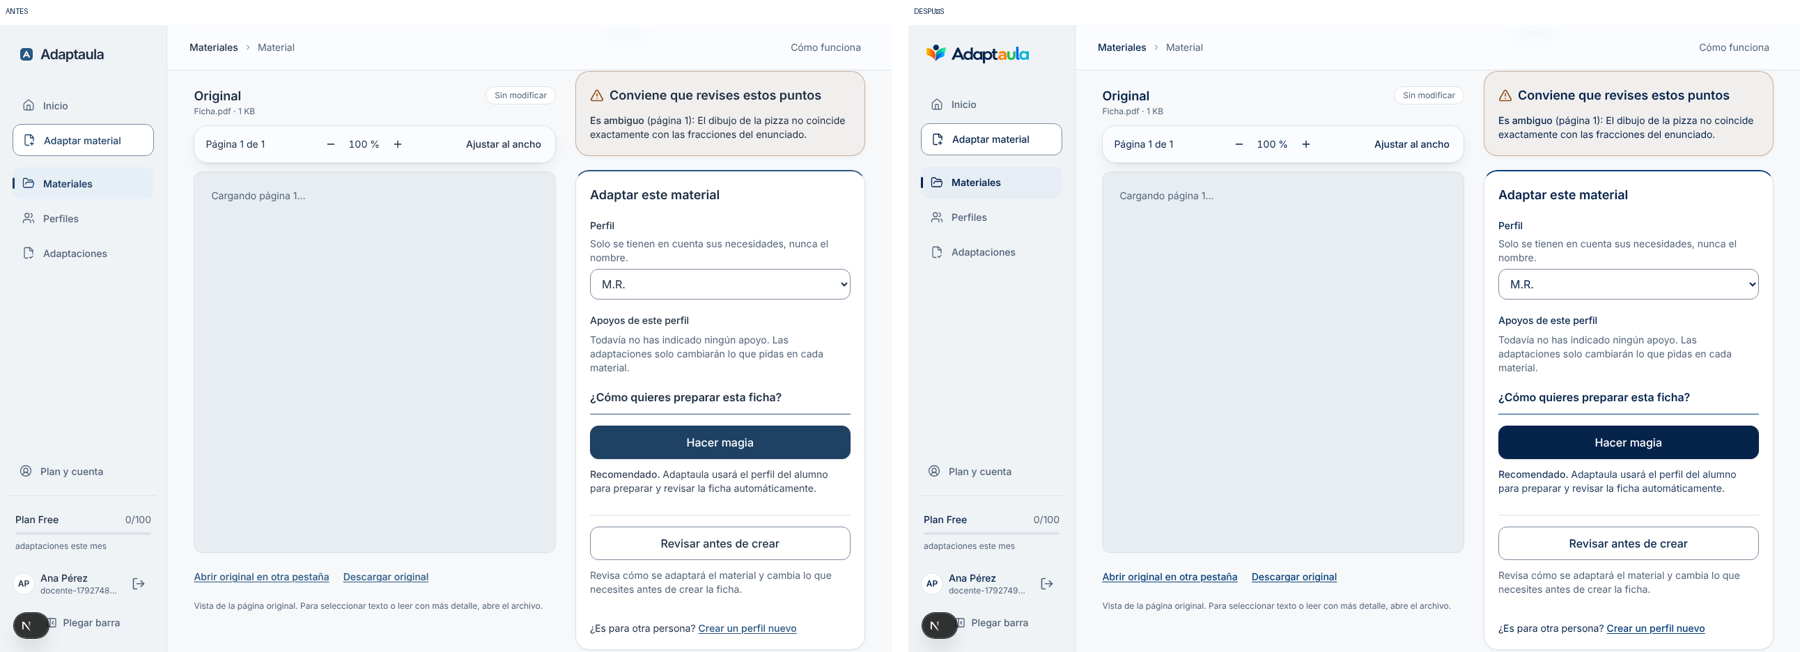
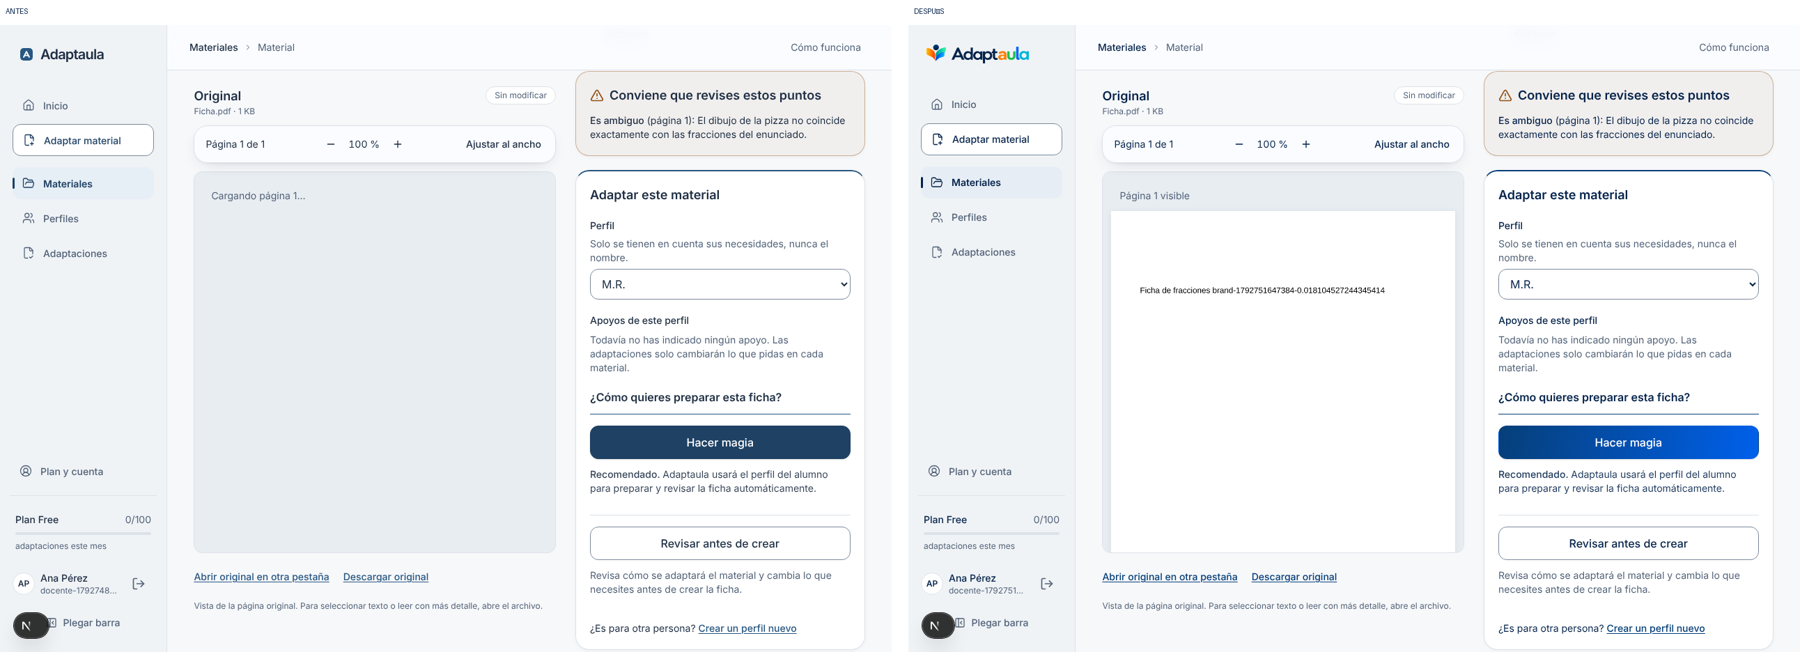
Fase C: la forma de la interfaz habla la marca (tipografía y colores con significado)
- Titulares y títulos de página en Outfit (next/font, autoalojada), la
  tipografía más cercana al logotipo medida contra su silueta (IoU de
  0,61, la primera de 14 candidatas), en lugar de Georgia.
- Pasos numerados (landing, escritorio y acceso) con los colores de «aula»
  en su orden y en sus variantes accesibles (src/lib/brand/tones.ts).
- «Hacer magia», la acción de la IA, en un degradado del azul de marca
  (variant="magic", blanco ≥ 5,4:1, sólido en alto contraste); las
  decisiones del docente siguen en azul marino.
- Franja de marca con los colores de «aula» en la bienvenida y el pie.
- E2E de identidad: comprueba la tipografía, los colores de los pasos y
  el estilo propio de «Hacer magia». Test del flujo ajustado al nuevo
  estilo de la acción principal. Galería antes/después regenerada.

Claude-Session: https://claude.ai/code/session_01GZ7wVLGaN8iJtsHpZxqFEf

Changed region(s): [[0.8089, 0.6442, 0.9956, 0.7055], [0.6222, 0.4294, 0.7778, 0.4601], [0.6222, 0.2761, 0.6844, 0.3067]]

diff --git a/tests/e2e/brand-identity.spec.ts b/tests/e2e/brand-identity.spec.ts
@@ -72,6 +72,10 @@ test("landing, cabecera, footer y acceso: logotipo oficial, favicon y sin desbor
     const manifest = (await (await request.get(icons.find((i) => i.rel === "manifest")!.href)).json()) as { icons: Array<{ src: string; sizes: string }> };
     for (const icon of manifest.icons) expect((await request.get(icon.src)).status(), icon.src).toBe(200);
     expect(manifest.icons.map((i) => i.sizes)).toEqual(expect.arrayContaining(["192x192", "512x512"]));
+    // The form speaks the brand: titles in the display face closest to the wordmark, the steps in the colours of «aula» in order.
+    expect(await page.getByRole("heading", { level: 1 }).first().evaluate((h) => getComputedStyle(h).fontFamily)).toMatch(/Outfit/i);
+    const stepRules = await page.locator("#como-funciona ol > li").evaluateAll((items) => items.map((li) => getComputedStyle(li).borderTopColor));
+    expect(stepRules.slice(0, 4)).toEqual(["rgb(219, 110, 1)", "rgb(28, 161, 69)", "rgb(0, 103, 253)", "rgb(1, 153, 186)"]);
     // Exactly one horizontal logo per header: never duplicated.
     await expect(page.getByRole("banner").locator(`img[src="${WORDMARK}"]:visible`)).toHaveCount(1);
   }
@@ -141,6 +145,13 @@ test("espacio docente: bienvenida, escritorio, barra lateral expandida y plegada
   await expect(page.getByRole("heading", { name: "¿Cómo quieres preparar esta ficha?" })).toBeVisible();
   await snap(page, info, "06-hacer-magia");
   if (!BEFORE) {
+    // What the AI does by itself is told apart from what the teacher decides: «Hacer magia» in the brand blue, «Revisar antes de
+    // crear» a neutral control. Its white label keeps ≥ 4.5:1 on both ends of the gradient (measured in brand.css).
+    const magic = page.getByRole("button", { name: "Hacer magia" });
+    await expect(magic).toHaveClass(/btn-magic/);
+    expect(await magic.evaluate((b) => getComputedStyle(b).backgroundImage)).toMatch(/linear-gradient/);
+    expect(await magic.evaluate((b) => getComputedStyle(b).color)).toBe("rgb(255, 255, 255)");
+    await expect(page.getByRole("button", { name: "Revisar antes de crear" })).not.toHaveClass(/btn-magic/);
     expect(await noOverflow(page)).toBe(true);
     expect(await serious(page)).toEqual([]);
   }

diff --git a/src/app/app/(shell)/(inicio)/page.tsx b/src/app/app/(shell)/(inicio)/page.tsx
@@ -6,6 +6,8 @@ import { requireWorkspace } from "@/lib/auth/workspace";
 import { formatDay, greetingFor } from "@/lib/format/date";
 import { getWorkspaceUsage } from "@/lib/plans/usage";
 import { listMaterials } from "@/lib/materials/repository";
+import { stepTone } from "@/lib/brand/tones";
+import { cn } from "@/lib/utils/cn";
 import { StatusBadge } from "@/components/materials/status-badge";
 import type { MaterialStatus } from "@/lib/materials/types";
 import { countActiveProfiles } from "@/lib/profiles/repository";
@@ -101,12 +103,12 @@ export default async function DashboardPage() {
 
       {materials.length === 0 ? (
         <section aria-labelledby="empieza" className="py-2">
-          <h2 id="empieza" className="font-editorial text-2xl sm:text-3xl">Empieza subiendo una ficha que ya utilizas.</h2>
+          <h2 id="empieza" className="font-display text-2xl sm:text-3xl">Empieza subiendo una ficha que ya utilizas.</h2>
           <p className="mt-3 max-w-xl text-muted-foreground">Cuando subas tu primer material, aparecerá aquí para que puedas retomarlo.</p>
           <ol className="mt-8 grid gap-6 sm:grid-cols-3">
             {FIRST_STEPS.map((step, i) => (
-              <li key={step.title} className="border-t border-border pt-4">
-                <span aria-hidden className="text-xs text-primary">0{i + 1}</span>
+              <li key={step.title} className={cn("border-t-2 pt-4", stepTone(i).rule)}>
+                <span aria-hidden className={cn("font-display text-sm font-semibold", stepTone(i).text)}>0{i + 1}</span>
                 <h3 className="mb-2 mt-3 font-semibold"><span className="sr-only">Paso {i + 1}: </span>{step.title}</h3>
                 <p className="text-sm text-muted-foreground">{step.text}</p>
               </li>

diff --git a/src/styles/brand.css b/src/styles/brand.css
@@ -35,8 +35,21 @@
   .brand-lockup--symbol { padding-top: 0; }
   .brand-lockup--symbol .brand-wordmark { display: none; }
   .brand-lockup--symbol .brand-symbol { height: 2rem; margin-top: 0; }
+  /* Titulares (Outfit): seminegrita por defecto, como el logotipo; un peso explícito en el marcado manda. */
+  .font-display { font-weight: 600; letter-spacing: -0.02em; }
+  /* «Hacer magia»: la acción que hace la IA, en el azul de la marca (del círculo al azul intenso). Blanco ≥ 5,4:1 en todo el
+     degradado; el hover lo oscurece. Sin degradado en alto contraste o colores forzados. */
+  .btn-magic { background: linear-gradient(100deg, var(--color-primary) 0%, var(--color-brand-blue-ink) 100%); }
+  .btn-magic:hover:not(:disabled) { background: linear-gradient(100deg, var(--color-primary-strong) 0%, var(--color-primary) 100%); }
+  /* Firma de marca: los cuatro colores de «aula» en su orden. Decorativa (aria-hidden); nunca transmite información. */
+  .brand-rule { height: 3px; border: 0; background: linear-gradient(90deg, var(--color-brand-orange) 0 25%, var(--color-brand-green) 25% 50%, var(--color-brand-blue) 50% 75%, var(--color-brand-cyan) 75% 100%); }
+}
+@media (prefers-contrast: more) {
+  .btn-magic, .btn-magic:hover:not(:disabled) { background: var(--color-primary-strong); }
 }
 @media (forced-colors: active) {
   /* Los recursos oficiales se ven tal cual; el enlace sigue mostrando su foco del sistema. */
   .brand-lockup img { forced-color-adjust: none; }
+  .btn-magic { background: ButtonFace; color: ButtonText; border-color: ButtonText; }
+  .brand-rule { display: none; }
 }

diff --git a/src/app/(auth)/layout.tsx b/src/app/(auth)/layout.tsx
@@ -1,5 +1,7 @@
 import type { ReactNode } from "react";
 import { Logo } from "@/components/ui/logo";
+import { stepTone } from "@/lib/brand/tones";
+import { cn } from "@/lib/utils/cn";
 
 const STEPS = ["Sube un PDF o una imagen", "Elige apoyos funcionales", "Revisa la ficha y descarga el PDF"] as const;
 
@@ -10,9 +12,9 @@ export default function AuthLayout({ children }: { children: ReactNode }) {
         <Logo size="lg" />
         <div className="max-w-lg space-y-8">
           <p className="eyebrow text-primary">Del documento al aula</p>
-          <p className="font-editorial text-5xl leading-[1.12] tracking-tight">Tus materiales de siempre. Más formas de aprender.</p>
+          <p className="font-display text-5xl leading-[1.12] tracking-tight">Tus materiales de siempre. Más formas de aprender.</p>
           <ol className="divide-y divide-border border-y border-border text-sm">
-            {STEPS.map((step, i) => <li key={step} className="flex gap-5 py-4"><span aria-hidden className="font-medium tabular-nums text-primary">0{i + 1}</span>{step}</li>)}
+            {STEPS.map((step, i) => <li key={step} className="flex gap-5 py-4"><span aria-hidden className={cn("font-display font-semibold tabular-nums", stepTone(i).text)}>0{i + 1}</span>{step}</li>)}
           </ol>
         </div>
         <p className="max-w-md text-sm text-muted-foreground">Adaptaula prepara propuestas. Tú decides qué usar y conservas el documento original.</p>

diff --git a/src/components/app/onboarding-wizard.tsx b/src/components/app/onboarding-wizard.tsx
@@ -36,7 +36,7 @@ export function OnboardingWizard({ action, plan }: { action: (input: unknown) =>
 
   return (
     <div className="space-y-7">
-      <div className="space-y-2"><p className="eyebrow text-primary">Primeros pasos</p><h1 className="font-editorial text-3xl tracking-tight sm:text-4xl">Tu primera ficha empieza aquí.</h1><p className="text-muted-foreground">Elige la etapa en la que trabajas. Podrás cambiarla después.</p></div>
+      <div className="space-y-2"><p className="eyebrow text-primary">Primeros pasos</p><h1 className="font-display text-3xl tracking-tight sm:text-4xl">Tu primera ficha empieza aquí.</h1><p className="text-muted-foreground">Elige la etapa en la que trabajas. Podrás cambiarla después.</p></div>
       {error ? <Alert tone="danger">{error}</Alert> : null}
       <ChoiceCards name="stage" legend="¿Qué enseñas?" options={STAGES} value={stage} onChange={setStage} columns={2} />
       <div className="border-y border-border py-5 text-sm"><p className="font-medium">Un perfil funcional describe apoyos, no diagnósticos.</p><p className="mt-1 text-muted-foreground">Después de subir la ficha, podrás elegir apoyos de lectura, lenguaje, organización o matemáticas. Identifica al alumnado mediante un alias o iniciales.</p></div>

diff --git a/src/components/marketing/steps.tsx b/src/components/marketing/steps.tsx
@@ -1,3 +1,6 @@
+import { stepTone } from "@/lib/brand/tones";
+import { cn } from "@/lib/utils/cn";
+
 export const STEPS = [
   { title: "Sube tu material", text: "Selecciona una ficha en PDF, JPG, PNG o WEBP. El archivo se guarda de forma privada y se comprueba antes de analizarlo." },
   { title: "Elige los apoyos", text: "Usa un perfil funcional con alias: lectura, organización, lenguaje o pasos matemáticos, según lo que necesite la actividad." },
@@ -10,8 +13,8 @@ export function StepsList() {
   return (
     <ol className="grid gap-x-8 gap-y-8 sm:grid-cols-2 lg:grid-cols-5">
       {STEPS.map((step, i) => (
-        <li key={step.title} className="min-w-0 border-t border-foreground pt-4">
-          <span aria-hidden className="font-editorial text-3xl text-primary">0{i + 1}</span>
+        <li key={step.title} className={cn("min-w-0 border-t-2 pt-4", stepTone(i).rule)}>
+          <span aria-hidden className={cn("font-display text-3xl", stepTone(i).text)}>0{i + 1}</span>
           <h3 className="mb-2 mt-5 text-lg font-semibold"><span className="sr-only">Paso {i + 1}: </span>{step.title}</h3>
           <p className="text-sm leading-relaxed text-muted-foreground">{step.text}</p>
         </li>

diff --git a/src/components/marketing/info-sections.tsx b/src/components/marketing/info-sections.tsx
@@ -69,7 +69,7 @@ export function PrivacySection() {
   return (
     <Section id="privacidad" eyebrow="Confianza" title="El cuidado también está en los datos." intro="Recogemos lo mínimo para preparar los materiales.">
       <div className="grid gap-10 lg:grid-cols-[1fr_2fr]">
-        <div><p className="font-editorial text-2xl leading-relaxed">Detrás de cada ficha hay una persona. Su información merece cuidado.</p><LinkButton href="/privacidad" variant="secondary" className="mt-6">Más sobre privacidad</LinkButton></div>
+        <div><p className="font-display text-2xl leading-relaxed">Detrás de cada ficha hay una persona. Su información merece cuidado.</p><LinkButton href="/privacidad" variant="secondary" className="mt-6">Más sobre privacidad</LinkButton></div>
         <dl className="editorial-list">{PRIVACY.map(([term, detail]) => <div key={term} className="grid gap-2 py-5 sm:grid-cols-[10rem_1fr]"><dt className="font-semibold">{term}</dt><dd className="text-sm leading-relaxed text-muted-foreground">{detail}</dd></div>)}</dl>
       </div>
     </Section>

diff --git a/src/app/layout.tsx b/src/app/layout.tsx
@@ -1,8 +1,10 @@
 import type { Metadata, Viewport } from "next";
-import { Inter } from "next/font/google";
+import { Inter, Outfit } from "next/font/google";
 import "./globals.css";
 
 const inter = Inter({ variable: "--font-inter", subsets: ["latin"], display: "swap" });
+// Display face for titles: the closest to the official wordmark's geometry (single-storey «a», round «o d p»); docs/BRAND.md §3.
+const outfit = Outfit({ variable: "--font-outfit", subsets: ["latin"], weight: ["500", "600", "700"], display: "swap" });
 
 export const metadata: Metadata = {
   title: { default: "Adaptaula", template: "%s · Adaptaula" },
@@ -14,7 +16,7 @@ export const viewport: Viewport = { themeColor: "#05234b" };
 
 export default function RootLayout({ children }: LayoutProps<"/">) {
   return (
-    <html lang="es" className={`${inter.variable} h-full antialiased`}>
+    <html lang="es" className={`${inter.variable} ${outfit.variable} h-full antialiased`}>
       <body className="flex min-h-full flex-col">
         <a
           href="#contenido"

diff --git a/src/components/ui/button.tsx b/src/components/ui/button.tsx
@@ -2,7 +2,7 @@ import Link from "next/link";
 import type { ComponentProps } from "react";
 import { cn } from "@/lib/utils/cn";
 
-type Variant = "primary" | "secondary" | "ghost" | "danger";
+type Variant = "primary" | "secondary" | "ghost" | "danger" | "magic";
 type Size = "md" | "sm" | "lg";
 
 const variants: Record<Variant, string> = {
@@ -10,6 +10,9 @@ const variants: Record<Variant, string> = {
   secondary: "border border-control-border bg-surface text-foreground hover:border-primary hover:bg-primary-soft",
   ghost: "text-foreground hover:bg-foreground/5",
   danger: "bg-danger text-white hover:bg-danger/90",
+  // The action the AI carries out by itself («Hacer magia»): the brand blue, as a gradient in the symbol's manner. What the teacher
+  // decides stays navy (primary), so the two read differently. White text keeps ≥ 5.4:1 across the gradient (brand.css).
+  magic: "btn-magic border border-transparent text-white shadow-sm",
 };
 
 const sizes: Record<Size, string> = {

diff --git a/src/app/(marketing)/como-funciona/page.tsx b/src/app/(marketing)/como-funciona/page.tsx
@@ -19,7 +19,7 @@ export default function HowItWorksPage() {
       </div>
       <StepsList />
       <section aria-labelledby="vista-ejemplo" className="space-y-5 border-t border-border pt-10">
-        <div className="max-w-2xl"><h2 id="vista-ejemplo" className="font-editorial text-3xl">Conoce el documento antes de empezar</h2><p className="mt-2 text-muted-foreground">Explora una ficha sintética. Puedes alternar original, propuesta, comparación y aspecto de revisión.</p></div>
+        <div className="max-w-2xl"><h2 id="vista-ejemplo" className="font-display text-3xl">Conoce el documento antes de empezar</h2><p className="mt-2 text-muted-foreground">Explora una ficha sintética. Puedes alternar original, propuesta, comparación y aspecto de revisión.</p></div>
         <Demo />
       </section>
       <div className="max-w-2xl space-y-4 border-t border-border pt-10">

diff --git a/tests/unit/magic-flow-ui.test.ts b/tests/unit/magic-flow-ui.test.ts
@@ -44,8 +44,9 @@ describe("A · creation screen: «¿Cómo quieres preparar esta ficha?»", () =>
     expect(out.indexOf("Hacer magia")).toBeLessThan(out.indexOf("Revisar antes de crear"));
     const buttons = [...out.matchAll(/<button[^>]*>/g)].map((m) => m[0]);
     expect(buttons).toHaveLength(2);
-    expect(buttons[0]).toMatch(/(?:^|\s)bg-primary-strong(?:\s|")/);
-    expect(buttons[1]).not.toMatch(/(?:^|\s)bg-primary-strong(?:\s|")/);
+    // «Hacer magia» is the solid, recommended action in the brand blue of what the AI does (Fase C); the review stays a neutral control.
+    expect(buttons[0]).toMatch(/(?:^|\s)btn-magic(?:\s|")/);
+    expect(buttons[1]).not.toMatch(/(?:^|\s)(?:btn-magic|bg-primary-strong)(?:\s|")/);
     expect(buttons.every((b) => b.includes("aria-describedby="))).toBe(true);
     expect(visible(out)).not.toMatch(INTERNAL);
   });

diff --git a/src/components/marketing/final-cta.tsx b/src/components/marketing/final-cta.tsx
@@ -6,7 +6,7 @@ export function FinalCta() {
       <div className="mx-auto flex max-w-6xl flex-col items-start justify-between gap-8 px-5 py-14 sm:px-8 sm:py-20 md:flex-row md:items-center">
         <div className="max-w-2xl space-y-4">
           <p className="eyebrow text-primary">Tu próxima ficha empieza aquí</p>
-          <h2 id="cta-final-titulo" className="font-editorial text-3xl leading-tight tracking-tight sm:text-5xl">Empieza con un material que ya utilizas.</h2>
+          <h2 id="cta-final-titulo" className="font-display text-3xl leading-tight tracking-tight sm:text-5xl">Empieza con un material que ya utilizas.</h2>
           <p className="text-muted-foreground">Crea tu cuenta gratis y prepara tu primera adaptación.</p>
         </div>
         <LinkButton href="/registro" size="lg" className="shrink-0">Adaptar mi primera ficha</LinkButton>
